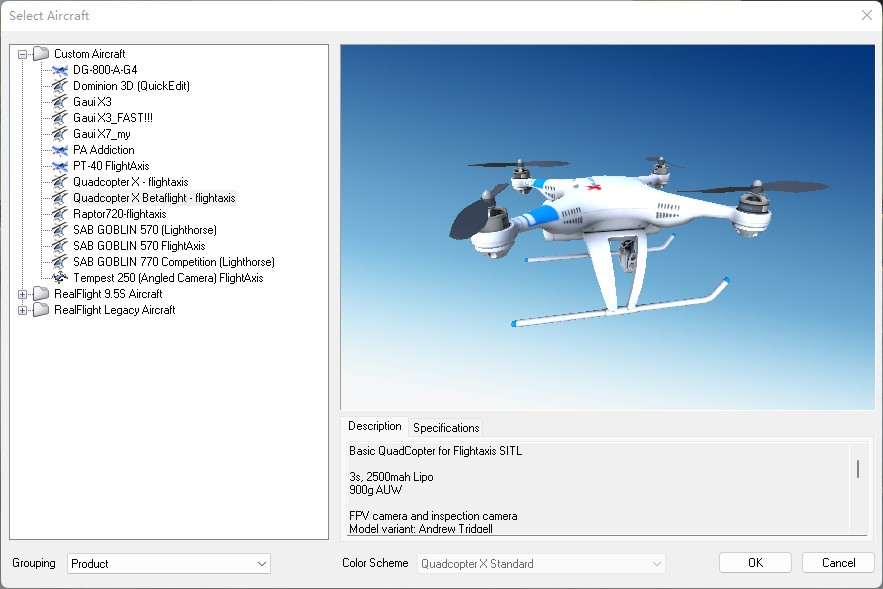
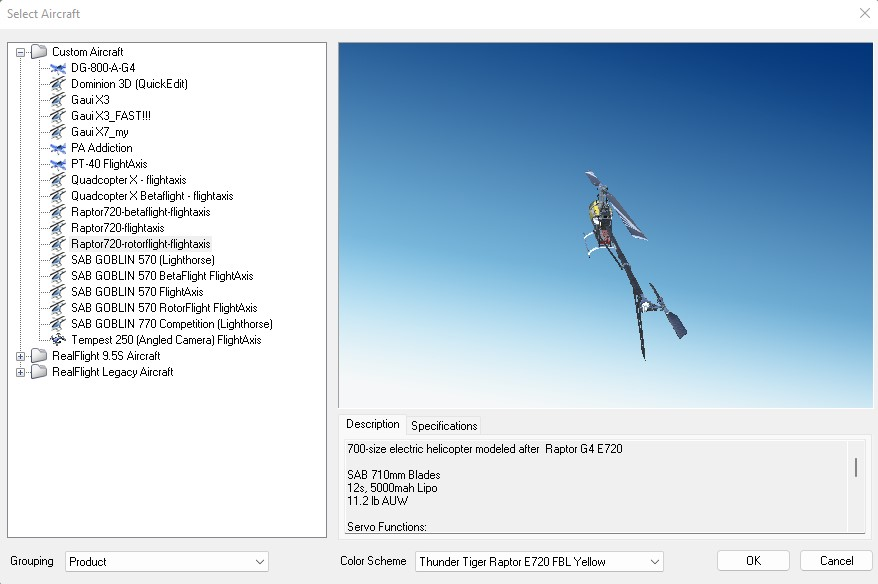
Update doc.

diff --git a/docs/SITL/Readme.md b/docs/SITL/Readme.md
@@ -6,13 +6,13 @@ ArduPilot also offers [RealFlight SITL](https://ardupilot.org/dev/docs/sitl-with
 To use it you may need to purchase it on [Steam](https://store.steampowered.com/app/1070820/RealFlight_95S/) or [offical website](https://www.realflight.com/).
 
 ### Setup
-To let BetaFlight SITL work with RealFlight, you need Windows 10 or Windows 11 with WSL. 
+To let rotorflight SITL work with RealFlight, you need Windows 10 or Windows 11 with WSL. 
 Ubuntu 20.04 in WSL2 on Windows 11 x64 is tested.
 [RealFlightBridge](https://github.com/xuhao1/RealFlightBridge) is also required.
 
-On WSL2, you need to configure the BetaFlight following [document here](https://github.com/betaflight/betaflight/blob/master/docs/development/Building%20in%20Windows.md).
+On WSL2, you need to configure the rotorflight following [document here](https://github.com/rotorflight/rotorflight/blob/master/docs/development/Building%20in%20Windows.md).
 
-Build BetaFlight with
+Build rotorflight with
 
 ```bash
 $ make TARGET=SITL
@@ -24,7 +24,7 @@ On Windows, download RealFlightBridge by
 $ git clone https://github.com/xuhao1/RealFlightBridge.git
 ```
 
-Import the quadcopter for RealFlight and BetaFlight at __models/Quadcopter X Betaflight - flightaxis_AV.RFX__ in RealFlightBridge. A detailed guide for improtanting can be found [here](https://ardupilot.org/dev/docs/sitl-with-realflight.html).
+Import the quadcopter for RealFlight and rotorflight at __models/Raptor720-rotorflight-flightaxis_AV.RFX__ or __models/SAB GOBLIN 570 (Lighthorse)_EA__ in RealFlightBridge. A detailed guide for improtanting can be found [here](https://ardupilot.org/dev/docs/sitl-with-realflight.html).
 Moreover, update the setting of RealFlight to allow API.
 ![](./imgs/rf_settings.jpg)
 
@@ -34,7 +34,7 @@ I recommend to use transmitter with OpenTX/EdgeTX as a game controller. In addit
 
 ### SITL
 To running SITL, you may need to:
-1. Open and select the newly improted model __Quadcopter X Betaflight - flightaxis__ in RealFlight.
+1. Open and select the newly improted model __Raptor720-rotorflight-flightaxis_AV__ in RealFlight.
     ![](./imgs/select.jpg)
 
     You need to restart RealFlight after you *edit* the model in RealFlight!
@@ -45,9 +45,9 @@ To running SITL, you may need to:
     $ python betaflight_bridge.py
     ```
 
-    You must start RealFlightBridge in Windows **before**  start the betaflight SITL.
+    You must start RealFlightBridge in Windows **before**  start the rotorflight SITL.
 
-3. Start BetaFlight SITL.
+3. Start rotorflight SITL.
     First you need to get the Windows' IP in WSL.
     In WSL entering
     ```bash
@@ -65,10 +65,10 @@ To running SITL, you may need to:
     ```
     172.19.32.1 is the example output of your Windows IP and 172.19.41.192 is your WSL IP. **These IPs change everytime you reboot the computer.**
 
-    Then go to the BetaFlight root and start SITL with this IP.
+    Then go to the rotorflight root and start SITL with this IP.
     ```bash
-    $ cd ~/develop/betaflight/
-    $ ./obj/main/betaflight_SITL.elf 172.19.32.1
+    $ cd ~/develop/rotorflight/
+    $ ./obj/main/rotorflight_SITL.elf 172.19.32.1
     The SITL will output to IP 172.19.32.1:9002 (Gazebo) and 172.19.32.1:9001 (RealFlightBridge)
     [system]Init...
     init PwmOut UDP link to gazebo 172.19.32.1:9002...0
@@ -82,13 +82,13 @@ To running SITL, you may need to:
     bind port 5761 for UART1
     unusedPinsInit
     ```
-    Then you can open BetaFlight configurator on **Windows** to connect to RealFlight via **WSL IP**.
-    ![](./imgs/betaflight.jpg)
+    Then you can open rotorflight configurator on **Windows** to connect to RealFlight via **WSL IP**.
+    ![](./imgs/rotorflight.jpg)
 
-    After connect to BetaFlight you need to set the arming switch with your controller.
+    After connect to rotorflight you need to set the arming switch with your controller.
 
 
-4. Finally, you can arm and take-off the Quadcopter with BetaFlight SITL in RealFlight with your controller.
+4. Finally, you can arm and take-off the Quadcopter with rotorflight SITL in RealFlight with your controller.
 
 ![](./imgs/SITL_RF.jpg)
 
